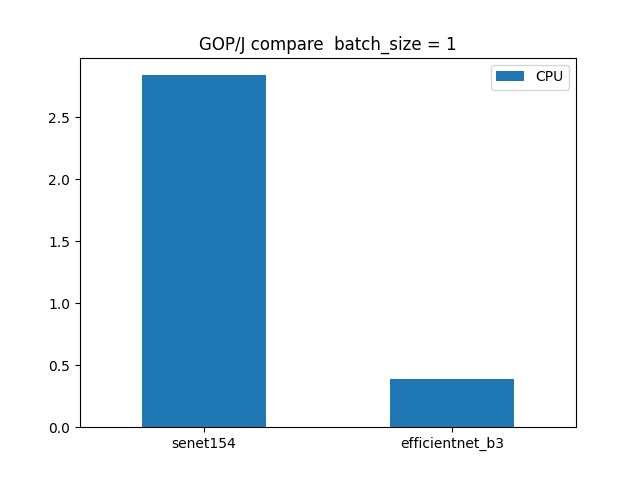
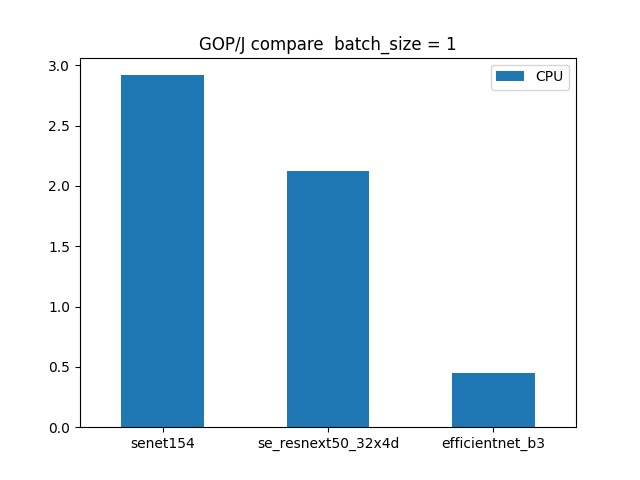
done step2

diff --git a/benchmark_op.py b/benchmark_op.py
@@ -83,13 +83,13 @@ class DLHBenchmark():
         return durations, ops, opj
 
     def inference_gpu(self):
-        return []
+        return [], 0, 0
 
     def inference_tpu(self):
-        return []
+        return [], 0, 0
 
     def inference_ascend(self):
-        return []
+        return [], 0, 0
 
     def make_hardware_func(self):
         func_map = {'CPU':self.inference_cpu, 'GPU':self.inference_gpu, 'TPU':self.inference_tpu,
@@ -143,7 +143,7 @@ if __name__ == "__main__":
     warm_up = 5
     infer_epoch = 5
     batch_size_list = [1, 2, 4]
-    model_list = ["senet154", "efficientnet_b3"]
+    model_list = ["senet154", "se_resnext50_32x4d", "efficientnet_b3"]
     hardware_info = {"CPU":15}
     dlh_bench = DLHBenchmark(warm_up, infer_epoch, batch_size_list,
                             model_list, hardware_info)
